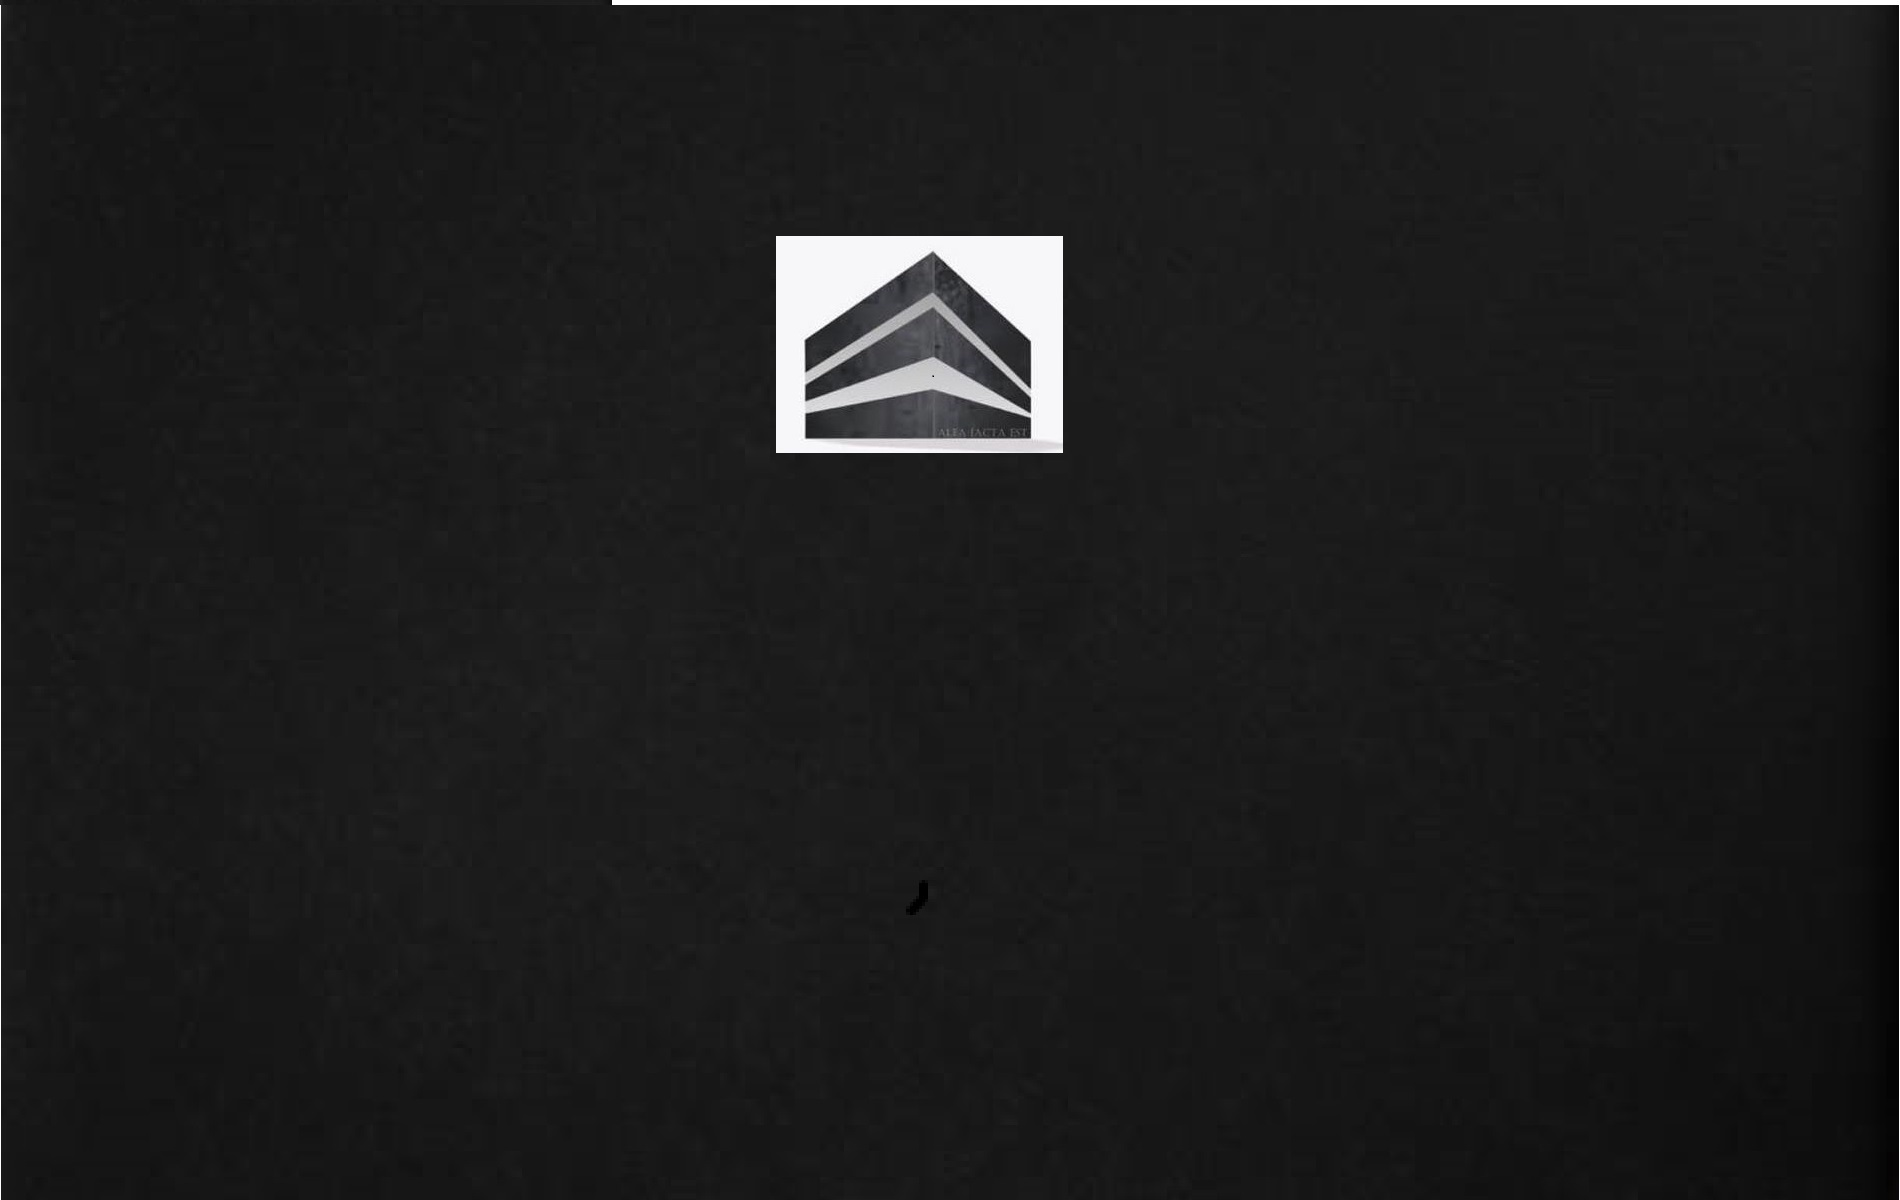
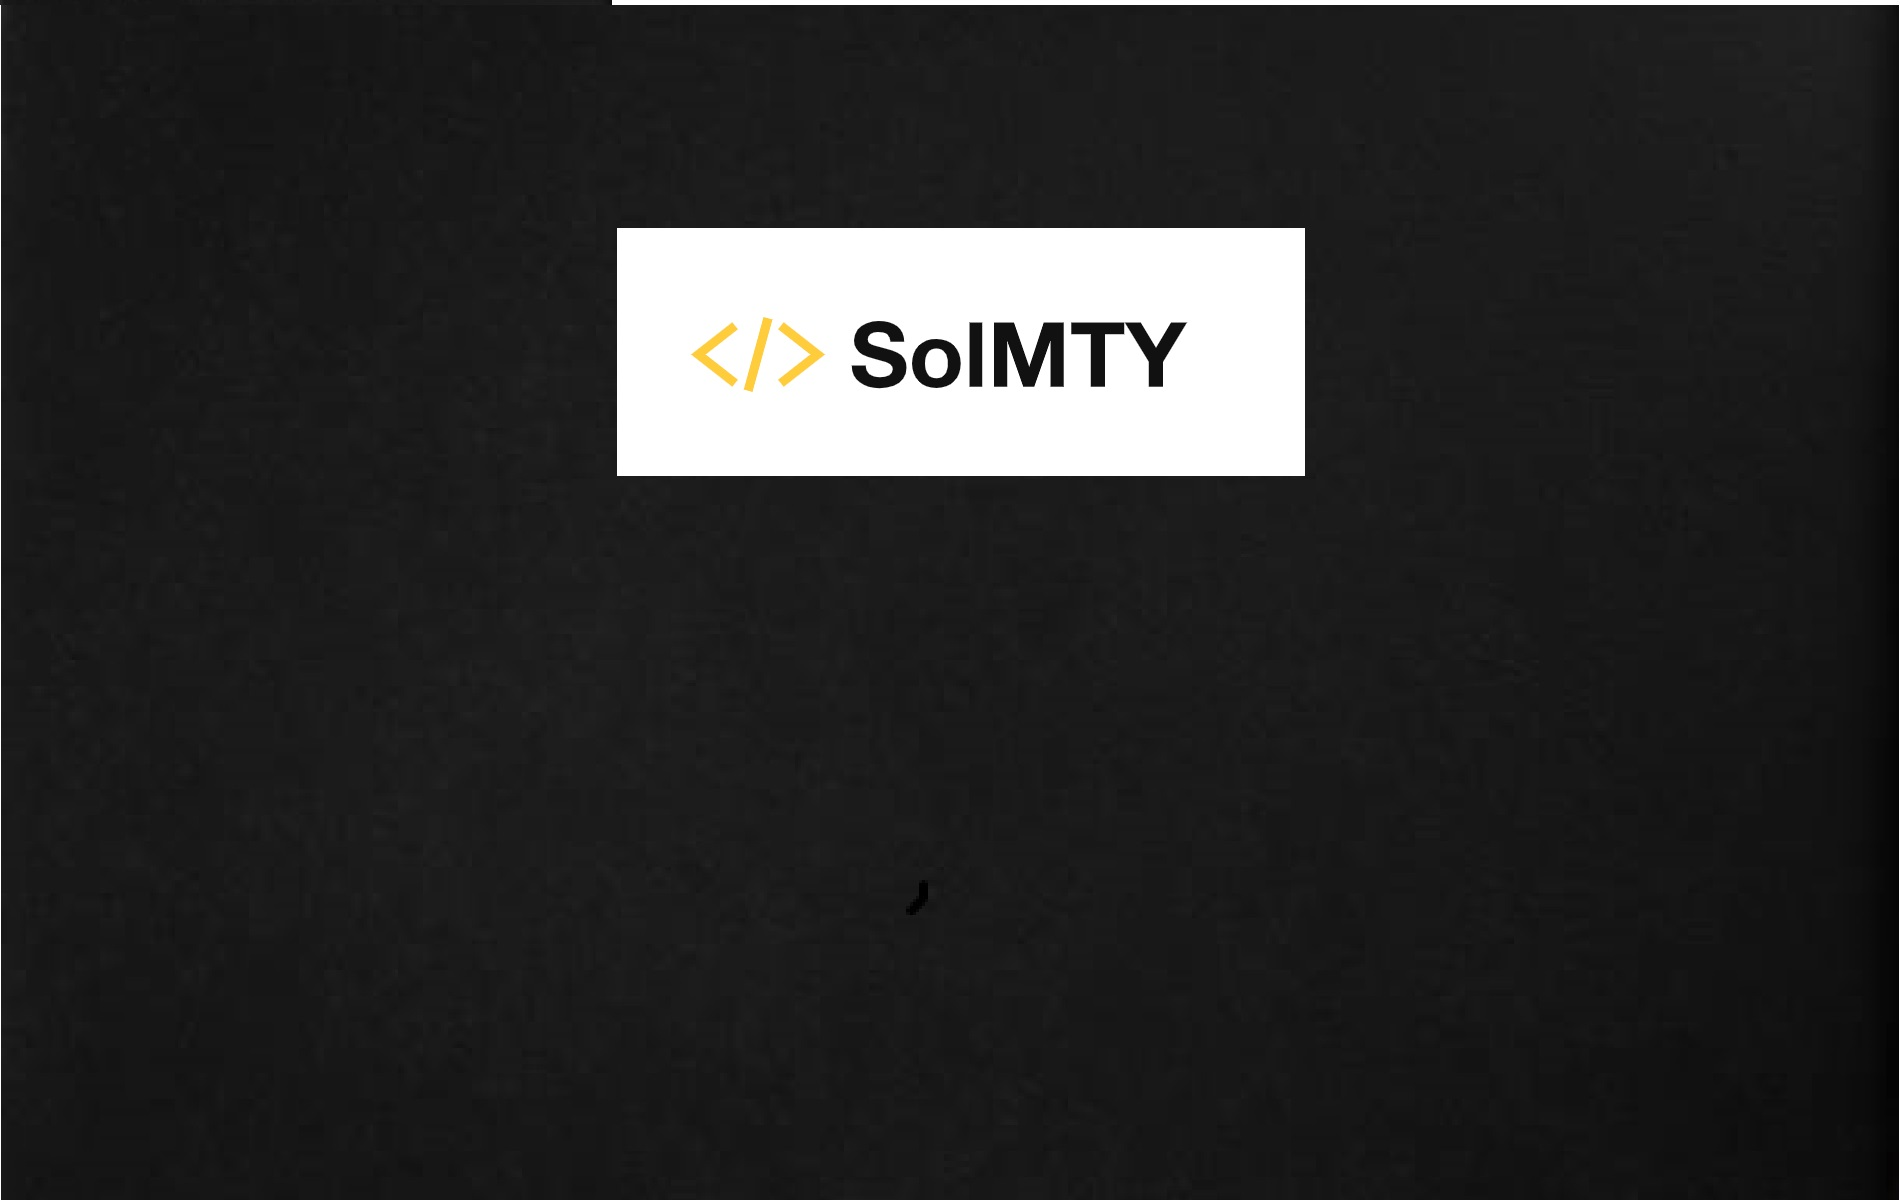
Proyecto: Soluciones digitales ecommerce amd web site

Changed region(s): [[0.3105, 0.185, 0.7142, 0.4008]]

diff --git a/frontend/seccionWeb/header.php b/frontend/seccionWeb/header.php
@@ -1,7 +1,7 @@
 <!-- Navigation-->
 <nav class="navbar navbar-expand-lg navbar-dark fixed-top bg-dark" id="mainNav">
     <div class="container">
-        <a class="navbar-brand" href="index.php?view=home"><img src="BackWeb/assets/img/logo.jpeg" alt="..." /></a>
+        <a class="navbar-brand" href="index.php?view=home"><img src="BackWeb/assets/img/solmty.png" alt="..." /></a>
         <button class="navbar-toggler" type="button" data-bs-toggle="collapse" data-bs-target="#navbarResponsive" aria-controls="navbarResponsive" aria-expanded="false" aria-label="Toggle navigation">
             Menu
             <i class="fas fa-bars ms-1"></i>
@@ -10,19 +10,20 @@
             <ul class="navbar-nav text-uppercase ms-auto py-4 py-lg-0">
                 <li class="nav-item"><a class="nav-link" href="index.php?view=home">Inicio</a></li>
                 <li class="nav-item"><a class="nav-link" href="index.php?view=acerca">Acerca</a></li>
-                <li class="nav-item"><a class="nav-link" href="index.php?view=restaurante">Restaurante</a></li>
-                <li class="nav-item"><a class="nav-link" href="index.php?view=recepcion">Reservar</a></li>
+                <li class="nav-item"><a class="nav-link" href="index.php?view=restaurante">Ecommerce</a></li>
+                <li class="nav-item"><a class="nav-link" href="index.php?view=recepcion">Web Site</a></li>
                 <li class="nav-item dropdown"><a class="nav-link dropdown-toggle" href="#" role="button" data-bs-toggle="dropdown" aria-expanded="false">
-                        Reglamento & Politicas
+                        SEO
                     </a>
                     <ul class="dropdown-menu">
-                        <li><a class="dropdown-item" href="index.php?view=politicaHospedaje">Politicas de Hospedaje</a></li>
-                        <li><a class="dropdown-item" href="index.php?view=politicaCancelacion">Politicas de Cancelación</a></li>
-                        <li><a class="dropdown-item" href="index.php?view=politicaReservacion">Politicas de Reservación</a></li>
+                        <li><a class="dropdown-item" href="index.php?view=politicaReservacion">Bussines Intelligent</a></li>
+                        <li><a class="dropdown-item" href="index.php?view=politicaHospedaje">Formularios web</a></li>
+                        <li><a class="dropdown-item" href="index.php?view=politicaCancelacion">ChatBoot WhatsApp</a></li>
+                        
                         <li>
                             <hr class="dropdown-divider">
                         </li>
-                        <li><a class="dropdown-item" href="index.php?view=reglamento">Reglamento del Hotel</a></li>
+                        <li><a class="dropdown-item" href="index.php?view=reglamento">CRM Intelligent</a></li>
                     </ul>
                 </li>
                 <li class="nav-item"><a class="nav-link" href="index.php?view=contacto">Contacto</a></li>

diff --git a/frontend/seccionWeb/home.php b/frontend/seccionWeb/home.php
@@ -2,17 +2,17 @@
 <header class="masthead">
     <div class="container">
         <br><br><br><br><br>
-        <div class="masthead-subheading">Bienvenido a nuestro</div>        
-        <div class="masthead-heading text-uppercase">Hotel Casa de Piedra</div>        
-        <a class="btn btn-xl text-uppercase" style="background: #212529; color: aliceblue;" href="#services">Reservar ahora</a>
+        <div class="masthead-subheading">Bienvenido a nuestra web</div>        
+        <div class="masthead-heading text-uppercase">Soluciones digitales</div>        
+        <a class="btn btn-xl text-uppercase" style="background: #212529; color: aliceblue;" href="#services">Contactar asesor</a>
     </div>
 </header>
 <!-- Services-->
 <section class="page-section" id="services">
     <div class="container">
         <div class="text-center">
-            <h2 class="section-heading text-uppercase">Servicio de Hotel 24/7</h2>
-            <h3 class="section-subheading text-muted">Visita Casa de Piedra, conoce nuestras amenidades.</h3>
+            <h2 class="section-heading text-uppercase">Soluciones digitales</h2>
+            <h3 class="section-subheading text-muted">Sitios web, Tiendas digitales, Bussines Intelligent</h3>
         </div>
         <div>
             
@@ -23,8 +23,8 @@
                     <i class="fas fa-circle fa-stack-2x "></i>
                     <i class="fas fa-shopping-cart fa-stack-1x fa-inverse"></i>
                 </span>                -->
-                <img src="BackWeb/assets/img/habitaciones/sencilla.jpg" class="card-img-top" alt="">
-                <h4 class="my-3">Habitación sencilla</h4>
+                <img src="BackWeb/assets/img/eco.jpeg" class="card-img-top" alt="">
+                <h4 class="my-3">Ecommerce inteligente</h4>
                 <!-- <p class="text-muted">Lorem ipsum dolor sit amet, consectetur adipisicing elit. Minima maxime quam
                     architecto quo inventore harum ex magni, dicta impedit.</p> -->
             </div>
@@ -34,8 +34,8 @@
                     <i class="fas fa-circle fa-stack-2x "></i>
                     <i class="fas fa-lock fa-stack-1x fa-inverse"></i>
                 </span> -->
-                <img src="BackWeb/assets/img/habitaciones/premium.jpg" class="card-img-top" alt="">
-                <h4 class="my-3">Habitación Suite</h4>
+                <img src="BackWeb/assets/img/web.jpeg" class="card-img-top" alt="">
+                <h4 class="my-3">Sitio web inteligente</h4>
                 <!-- <p class="text-muted">Lorem ipsum dolor sit amet, consectetur adipisicing elit. Minima maxime quam
                     architecto quo inventore harum ex magni, dicta impedit.</p> -->
             </div>

diff --git a/index.php b/index.php
@@ -5,10 +5,10 @@
     <meta charset="UTF-8">
     <meta http-equiv="X-UA-Compatible" content="IE=edge">
     <meta name="viewport" content="width=device-width, initial-scale=1.0">
-    <title>Hotel Casas de Piedra</title>
+    <title>SolMTY</title>
     <!-- <link rel="stylesheet" href="./backend/css/orden.css"> -->
     <!-- Favicon-->
-    <link rel="icon" type="image/x-icon" href="BackWeb/assets/img/logo.jpeg" />
+    <link rel="icon" type="image/x-icon" href="BackWeb/assets/img/solmty.png" />
     <!-- Font Awesome icons (free version)-->
     <script src="https://use.fontawesome.com/releases/v6.1.0/js/all.js" crossorigin="anonymous"></script>
     <!-- Google fonts-->
